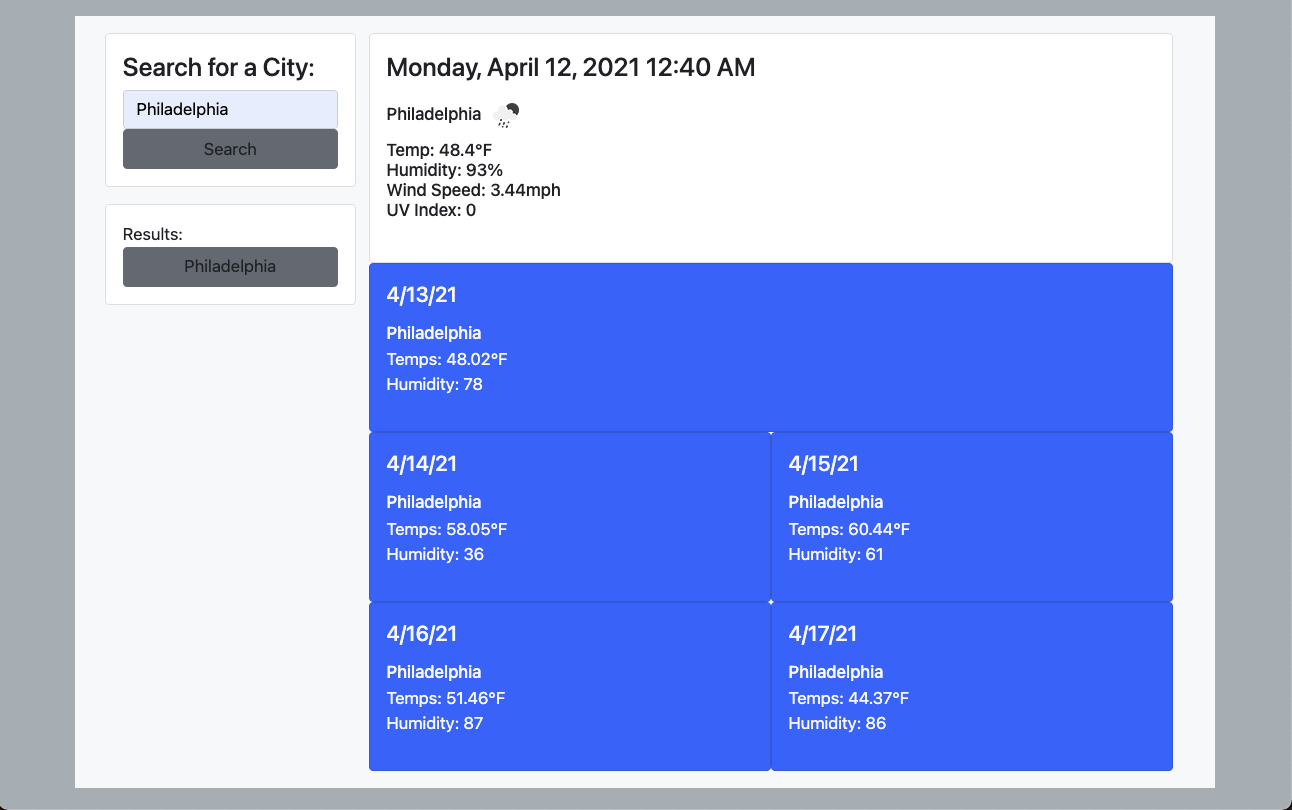
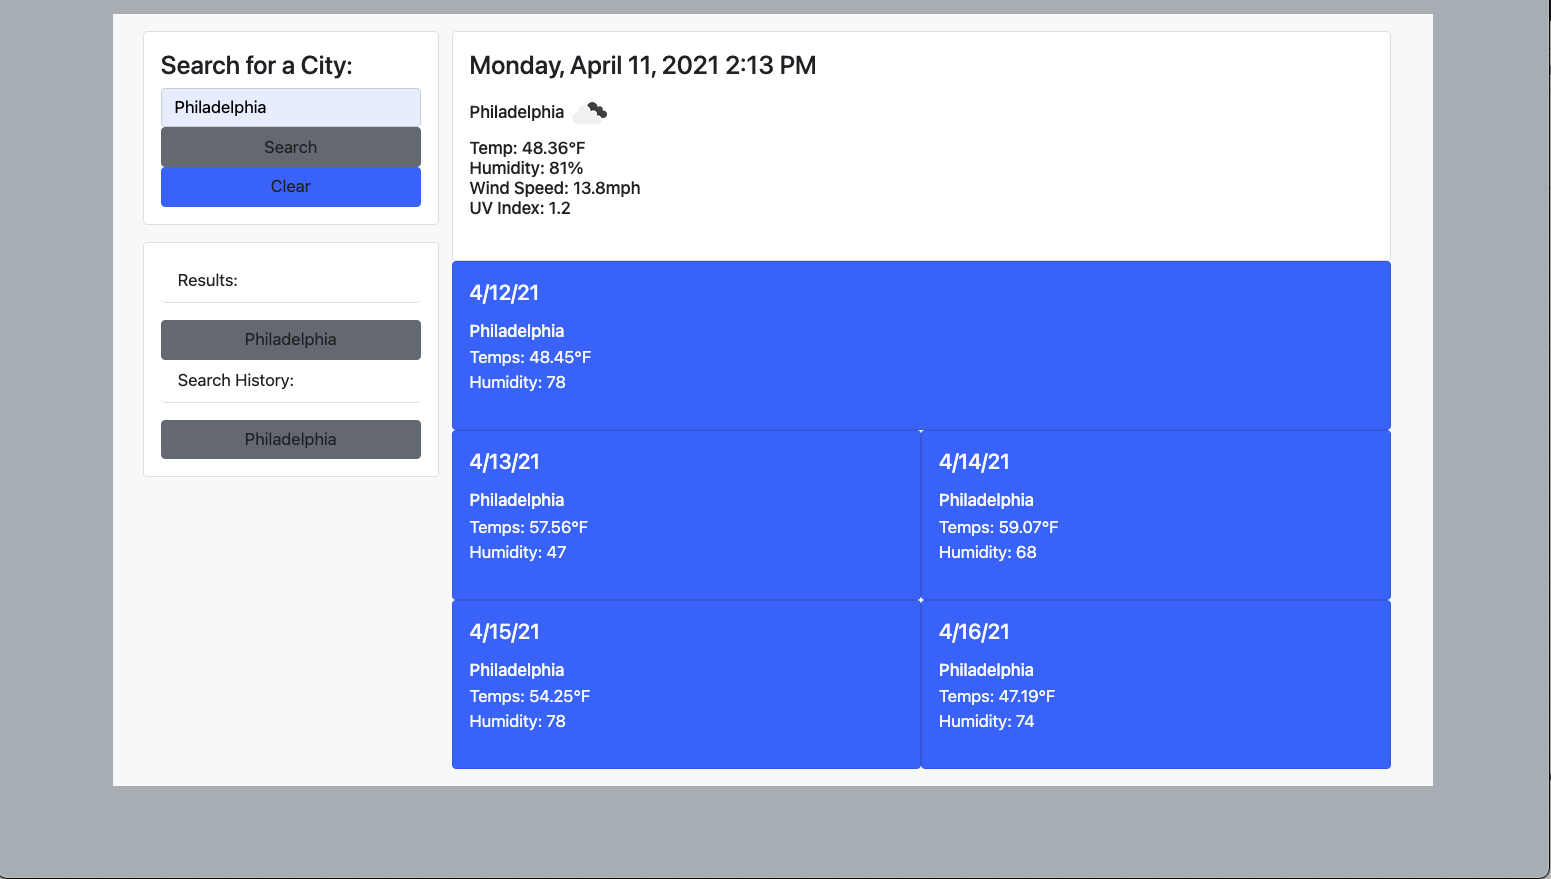
changed on click to one click

Changed region(s): [[0.031, 0.0, 0.9598, 0.9877], [0.9907, 0.0, 1.0, 1.0], [0.0, 0.9877, 0.031, 1.0]]

diff --git a/index.html b/index.html
@@ -28,7 +28,7 @@
                     <h4>Search for a City:</h4>
                     <input type="text" id="user-search" class="form-control" placeholder="Enter City" aria-label="Recipient's username" aria-describedby="basic-addon2">
                     <!-- BUTTON -->
-                    <span type='button' id='search-btn' class="input-group-text btn " id="basic-addon2"></span>
+                    <span type='button' id='search-btn' class="input-group-text btn" id="basic-addon2"></span>
                 </div>
                 <div class="pl-1">
                     <!-- SEARCH-RESULTS -->
@@ -39,14 +39,11 @@
             <!-- CURRENT WEATHER CARD -->
             <div class="row col-9 current-weather-card">
             <!-- 5 DAY FORECAST -->
-                    <!-- TOMORROW -->
-                
                 <div class="card card-body col-12 rounded text-light bg-primary">
                     <h5 id ='day0' class="">4/13/21</h5>
                     <h6 class="mt-2 mb-1 city-5-day"></h6>
                     <p class="day0-weather"></p>
                 </div>
-                <!-- THE DAY AFTER TOMORROW ETC -->
                 <div class="card card-body col-6 rounded text-light bg-primary">
                     <h5 id ='day1' class="">4/14/21</h5>
                     <h6 class="mt-2 mb-1 city-5-day"></h6>
@@ -57,7 +54,7 @@
                     <h6 class="mt-2 mb-1 city-5-day"></h6>
                     <p class="day2-weather"></p>
                 </div>
-                <!-- THE DAY AFTER TOMORROW ETC -->
+                
                 <div class="card card-body col-6 rounded text-light bg-primary">
                     <h5 id ='day3' class="">4/16/21</h5>
                     <h6 class="mt-2 mb-1 city-5-day"></h6>
@@ -68,7 +65,7 @@
                     <h6 class="mt-2 mb-1 city-5-day"></h6>
                     <p class="day4-weather"></p>
                 </div>
-                <!-- THE DAY AFTER TOMORROW ETC -->
+                
             </div>
         </div>
     </div>

diff --git a/assets/scripts/main.js b/assets/scripts/main.js
@@ -3,14 +3,14 @@ console.log('js connected');
 let userSearch = $('#user-search');
 let searchBtn = $('#search-btn');
 searchBtn.addClass('bg-secondary').html('Search');
-searchBtn.after($('<span>').attr('class','btn bg-light clear-results').html('Clear'));
+searchBtn.after($('<span>').attr('class','btn bg-primary clear-results').html('Clear'));
 let currentForecast = $('#current-forecast');
 
 // SEARCH RESULT LIST
 let searchResults = $('#search-results');
 searchResults.append($('<ul>').addClass('list-group list-group-flush saved-search'));
 
-$('.bg-primary').addClass('hide');
+$('.text-light').addClass('hide');
 let ulEl = $('<ul>');
 let liEl = $('<li>');
 
@@ -146,8 +146,9 @@ $(document).ready(() => {
     // ON CLICK search button event
     // get userSearch value for coordsRequest API
 
-    searchBtn.on('click', () => {
+    searchBtn.one('click', () => {
         // hide current weather card & 5day forecast 
+      
         $('.bg-primary').removeClass('hide');
 
         // format user input for url query 

diff --git a/assets/styles/style.css b/assets/styles/style.css
@@ -6,14 +6,6 @@ body {
     cursor: pointer;
 }
 
-/* SEARCH RESULTS LIST */
-/* .search-results {
-    list-style: none;
-    list-style-position: outside;
-} */
-.current-weather-items {
-}
-
 .hide {
     display: none;
 }

diff --git a/README.md b/README.md
@@ -5,15 +5,19 @@ I WANT to be able to search for a desired city's weather
 I EXPECT to see the current weather conditions and 5 day forecast for the city I searched for
 
 ## Screenshot of GitHub Pages:
-
 ### Desktop View
-![desktop-view](https://user-images.githubusercontent.com/56444674/114342319-a4749400-9b29-11eb-9038-ebab4ef024db.png)
+![Desktop-View](https://user-images.githubusercontent.com/56444674/114442029-171d5800-9b9a-11eb-886d-d43ca7ad68e2.png)
 
 ### Tablet View
-![tablet-view](https://user-images.githubusercontent.com/56444674/114342325-a8081b00-9b29-11eb-8fc8-3af8b0c5d916.png)
+![Tablet-View](https://user-images.githubusercontent.com/56444674/114442037-18e71b80-9b9a-11eb-91a5-38ad38e1bc5b.png)
 
 ### Mobile View
-![mobile-view](https://user-images.githubusercontent.com/56444674/114342327-a9d1de80-9b29-11eb-85f5-ae028ebac516.png)
+![Mobile-View](https://user-images.githubusercontent.com/56444674/114442042-1a184880-9b9a-11eb-8cff-2359d11f9b0a.png)
 
 ## URL to Deployed Application
 <a href='https://samsweig.github.io/Weather-DashBoard/'>My Live GitHub Site!!!</a>
+
+
+
+
+
